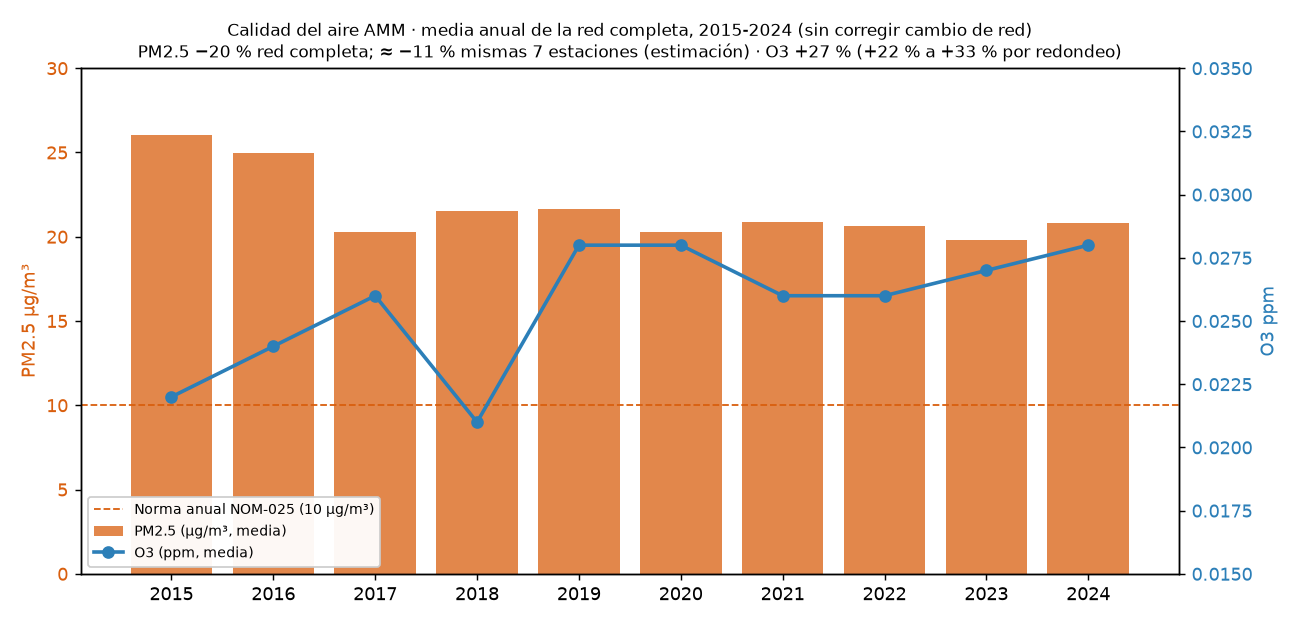
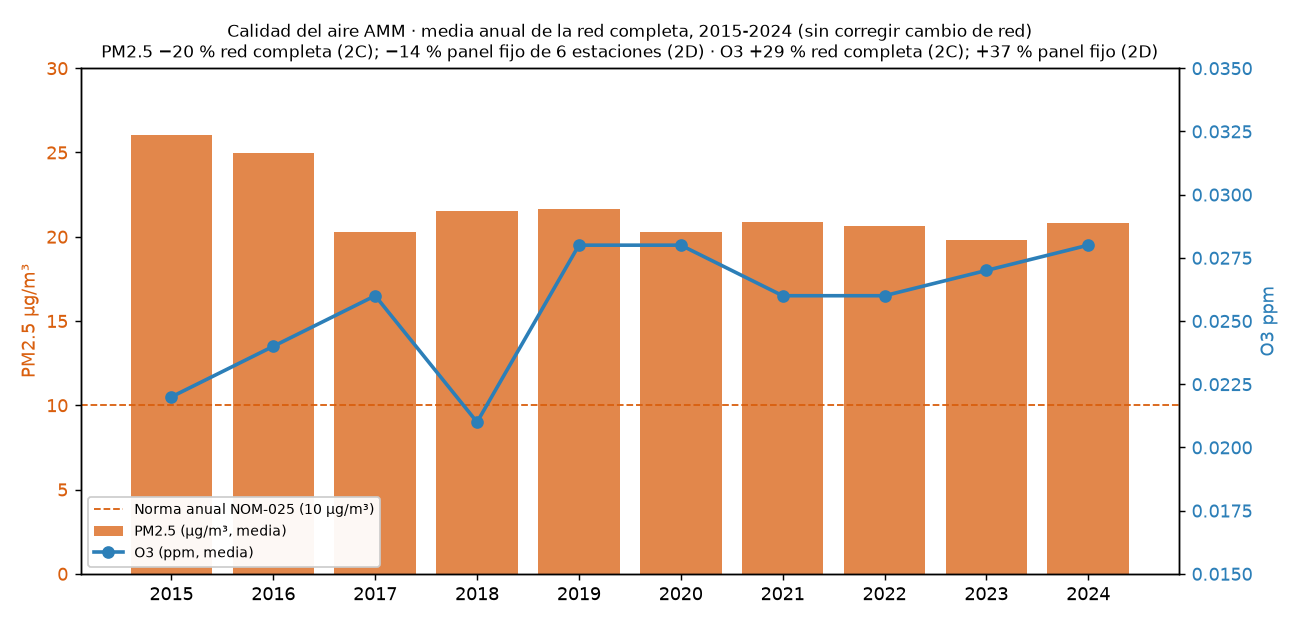
feat: execute queries 2C/2D/4C and replace estimates with real figures
- 2C (full network, no intermediate rounding): PM2.5 26.1->20.8 ug/m3
  (-20.0%); O3 21.6->27.9 ppb (+29.2%; the old +27.3% came from means
  rounded to 3 decimals).
- 2D (fixed panel, >=183 measured days in both years, mean of station
  means on daily averages): PM2.5 -14.1% across 6 stations (CE, NE,
  NE2, SE, SO, SO2; San Bernabe/NO excluded with 86 days in 2024);
  O3 +36.8% across 8 stations.
- 4C (network-size-normalized O3): 5.2% of station-days above the
  0.090 ppm norm in 2015 vs 9.9% in 2024 (period max; 3.0-8.9% in
  2016-2023).
- README and resultados now quote these figures instead of the
  estimates; fig_tendencia_anual.png regenerated with the real title.
- outputs/04_contingenciasa.csv regenerated with 'medidos' headers.

Changed region(s): [[0.0615, 0.0304, 0.8923, 0.0913]]

diff --git a/src/viz/charts.py b/src/viz/charts.py
@@ -42,12 +42,12 @@ def fig_tendencia() -> None:
     ax2.set_ylim(0.015, 0.035)
     ax2.tick_params(axis="y", labelcolor=AZUL)
 
-    # El título no debe decir más que el README: el −20 % de PM2.5 es de la red completa
-    # (7 estaciones en 2015, 14 en 2024) y el +27 % de O3 sale de medias redondeadas.
+    # El título no debe decir más que el README: el −20 % de PM2.5 es la red completa
+    # (query 2C) y el −14 % es el panel fijo de 6 estaciones (query 2D).
     ax1.set_title(
         "Calidad del aire AMM · media anual de la red completa, 2015-2024 (sin corregir cambio de red)\n"
-        "PM2.5 −20 % red completa; ≈ −11 % mismas 7 estaciones (estimación) · "
-        "O3 +27 % (+22 % a +33 % por redondeo)",
+        "PM2.5 −20 % red completa (2C); −14 % panel fijo de 6 estaciones (2D) · "
+        "O3 +29 % red completa (2C); +37 % panel fijo (2D)",
         fontsize=9.5,
     )
     ax1.set_xticks(list(pm["anio"]))

diff --git a/docs/resultados_2015_2024.md b/docs/resultados_2015_2024.md
@@ -14,13 +14,15 @@ resultados medidos.
 
 **Depende del contaminante, y la respuesta depende también de qué estaciones se comparan.**
 
-Media anual de la red completa (`outputs/02_tendencia_anuala.csv`; nivel diario = promedio de
-las estaciones que midieron ese día, nivel anual = promedio de los días):
+Media anual de la red completa (query **2C**, `outputs/02_tendencia_anualc.csv`; mismo
+indicador que `02_tendencia_anuala.csv` — nivel diario = promedio de las estaciones que
+midieron ese día, nivel anual = promedio de los días —, con el % calculado sin redondeo
+intermedio y el O3 en ppb):
 
 | Contaminante | 2015 | 2024 | Cambio | Lectura |
 |---|---|---|---|---|
 | **PM2.5** (µg/m³) | 26.1 | 20.8 | **−20.0 %** | Bajó, pero sigue en 2× la norma anual (10 µg/m³) |
-| **O3** (ppm, media) | 0.022 | 0.028 | **+27.3 %** | Subió |
+| **O3** (ppb, media) | 21.6 | 27.9 | **+29.2 %** | Subió |
 
 Dos advertencias que cambian la lectura:
 
@@ -31,24 +33,25 @@ Dos advertencias que cambian la lectura:
   15.7. Desde 2017 la media de red queda en una meseta de 19.8 a 21.6 µg/m³ (mejor año: 2023,
   19.8).
 
-  Estimación con las mismas estaciones: promedio simple de las medias horarias por estación
-  que imprimen los mapas `outputs/heatmap_pm25_2015.html` y `outputs/heatmap_pm25_2024.html`.
+  Con panel fijo (query **2D** de `sql/02_tendencia_anual.sql`): estaciones con 183 días o
+  más medidos en ambos años —con un umbral de 75 % (274 días) solo quedarían 2—, media anual
+  por estación sobre medias diarias y promedio simple de esas medias (cada estación pesa
+  igual):
 
   | Panel | 2015 | 2024 | Cambio |
   |---|---|---|---|
-  | Mismas 7 estaciones de 2015 | 26.2 | 23.2 | **≈ −11 %** |
-  | Las mismas, sin San Bernabé (NO, solo 86 días medidos en 2024) | 26.3 | 22.1 | **≈ −16 %** |
+  | Red completa (2C) | 26.1 | 20.8 | **−20.0 %** |
+  | Panel fijo: 6 estaciones (CE, NE, NE2, SE, SO, SO2) | 25.7 | 22.1 | **−14.1 %** |
 
-  Es una estimación: usa medias horarias (no diarias) y no corrige la cobertura desigual
-  dentro de cada año (Obispado midió 220 días en 2015). La query **2D** de
-  `sql/02_tendencia_anual.sql` hace el cálculo con panel fijo y medias diarias. Exige 183 días
-  o más en ambos años, porque con un umbral de 75 % (274 días) solo quedarían 2 estaciones.
-  **Todavía no se ha ejecutado.**
+  El −20 % de la red completa arrastra el efecto de la composición; el −14.1 % del panel
+  fijo es la cifra comparable. Resultados en `outputs/02_tendencia_anualc.csv` y
+  `outputs/02_tendencia_anuald.csv`.
 
-- **Precisión del O3.** El +27.3 % se calcula sobre medias ya redondeadas a 3 decimales
-  (0.028 / 0.022 − 1). Con medias reales entre 0.0215 y 0.0225 (2015) y entre 0.0275 y 0.0285
-  (2024), el cambio puede ir de ≈ +22 % a ≈ +33 %. La query **2C** recalcula el cambio sin
-  redondeo intermedio y reporta el O3 en ppb con un decimal. **Todavía no se ha ejecutado.**
+- **Precisión del O3.** El +27.3 % citado antes salía de medias ya redondeadas a 3 decimales
+  (0.028 / 0.022 − 1). La query **2C** recalculó el cambio sin redondeo intermedio:
+  **21.6 → 27.9 ppb, +29.2 %** con la red completa. Con el panel fijo de 8 estaciones que
+  midieron O3 en ambos años (CE, N, NE, NO, NO2, SE, SE2, SO2), el alza es mayor:
+  **21.8 → 29.8 ppb, +36.8 %** (`outputs/02_tendencia_anuald.csv`).
 
 Serie del O3 (media de red, ppm): 0.022 (2015), 0.024, 0.026, 0.021 (2018), 0.028, 0.028,
 0.026, 0.026, 0.027, 0.028 (2024). Es más alta en 2019-2024 que en 2015-2016, con 2018 como
@@ -114,8 +117,9 @@ Serie anual (`outputs/04_contingenciasa.csv`):
 - **O3:** días en que la peor estación supera 0.090 ppm en una hora: 73 (2015) → 121 (2024).
   Días sobre 0.130 ppm: 4 → 20; los 20 de 2024 son el máximo del periodo. Los dos conteos usan el
   máximo entre estaciones, que sube solo con añadir estaciones: el salto de 2017 (95 días)
-  coincide con la entrada de tres estaciones. La query **4C** reporta el % de estación-días
-  sobre norma, que no depende del tamaño de la red. **Todavía no se ha ejecutado.**
+  coincide con la entrada de tres estaciones. La query **4C** lo normaliza por estación-día
+  y ya se ejecutó (`outputs/04_contingenciasc.csv`): 5.2 % de los estación-días sobre norma
+  en 2015 frente a 9.9 % en 2024 (máximo del periodo; los demás años van de 3.0 % a 8.9 %).
 - **PM2.5:** días en que la media de la red supera 41 µg/m³: 15 (2015) y 13 (2024). Este criterio
   usa la media de la red, no la peor estación, así que no es comparable con el de O3.
 

diff --git a/README.md b/README.md
@@ -19,23 +19,24 @@ herramientas de IA (ver [Cómo se construyó](#cómo-se-construyó)).
 ## Respuestas cortas (con sus límites)
 
 1. **PM2.5 bajó y el ozono subió, pero la red cambió entre los dos años.** Con la red
-   completa, la media anual de PM2.5 pasa de 26.1 a 20.8 µg/m³ (−20 %). En 2015 solo 7
-   estaciones midieron PM2.5 y en 2024 fueron 14, varias con medias bajas, así que parte de
-   ese −20 % se debe a la composición de la red. Con las mismas 7 estaciones el cambio
-   estimado es de ≈ −11 % (≈ −16 % sin San Bernabé, que en 2024 solo midió 86 días); el
-   método está en [`docs/resultados_2015_2024.md`](docs/resultados_2015_2024.md). El O3 pasa
-   de 0.022 a 0.028 ppm (+27 %). Ese porcentaje se calculó sobre medias redondeadas a 3
-   decimales: con esa precisión, el cambio real está entre ≈ +22 % y ≈ +33 %.
+   completa, la media anual de PM2.5 pasa de 26.1 a 20.8 µg/m³ (−20 %, query 2C). En 2015
+   solo 7 estaciones midieron PM2.5 y en 2024 fueron 14, varias con medias bajas, así que
+   parte de ese −20 % se debe a la composición de la red. Con un panel fijo de 6 estaciones
+   con 183 días o más medidos en ambos años, el cambio es −14.1 % (25.7 → 22.1, query 2D).
+   El O3 pasa de 21.6 a 27.9 ppb (+29.2 %, query 2C, sin redondeo intermedio); con panel
+   fijo de 8 estaciones, +36.8 %. Detalles en
+   [`docs/resultados_2015_2024.md`](docs/resultados_2015_2024.md).
 2. **Apodaca (NE2) 24.5 µg/m³, 3.ª de 14; Centro/Obispado (CE) 23.4, 4.ª; San Pedro (SO2) 18.6,
    10.ª** (media de PM2.5 en 2015-2024). La más alta es Juárez (SE2) con 26.0, pero tiene
    solo 429 días medidos en 2015-2019, contra 1,689 en 2020-2024.
 3. **Días de O3 sobre norma: 73 (2015) → 121 (2024).** El conteo usa la peor estación de la
    red cada día, así que sube solo con añadir estaciones. La query 4C lo normaliza por
-   estación-día.
+   estación-día: 5.2 % de los estación-días en 2015 frente a 9.9 % en 2024.
 
 Las queries 2C (sin redondeo intermedio), 2D (panel fijo de estaciones) y 4C (O3
-normalizado) están en `sql/`, pero **todavía no se han ejecutado**. Cuando se ejecuten, sus
-cifras reemplazarán a las estimaciones de arriba.
+normalizado) están en `sql/` y ya se ejecutaron; sus resultados están en
+`outputs/02_tendencia_anualc.csv`, `outputs/02_tendencia_anuald.csv` y
+`outputs/04_contingenciasc.csv`.
 
 ## Stack
 
